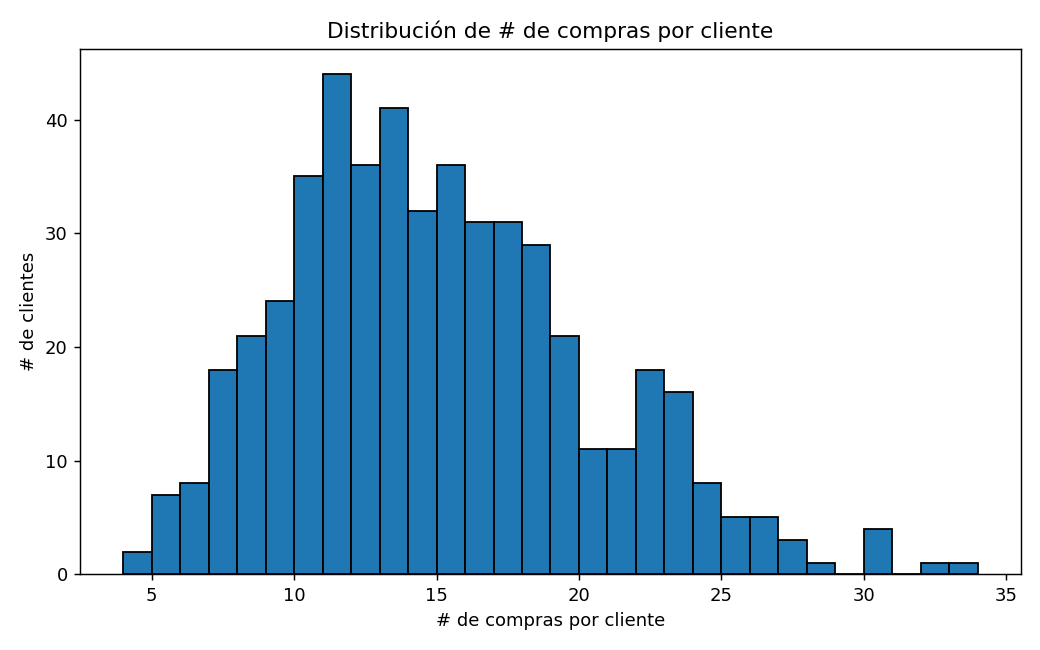
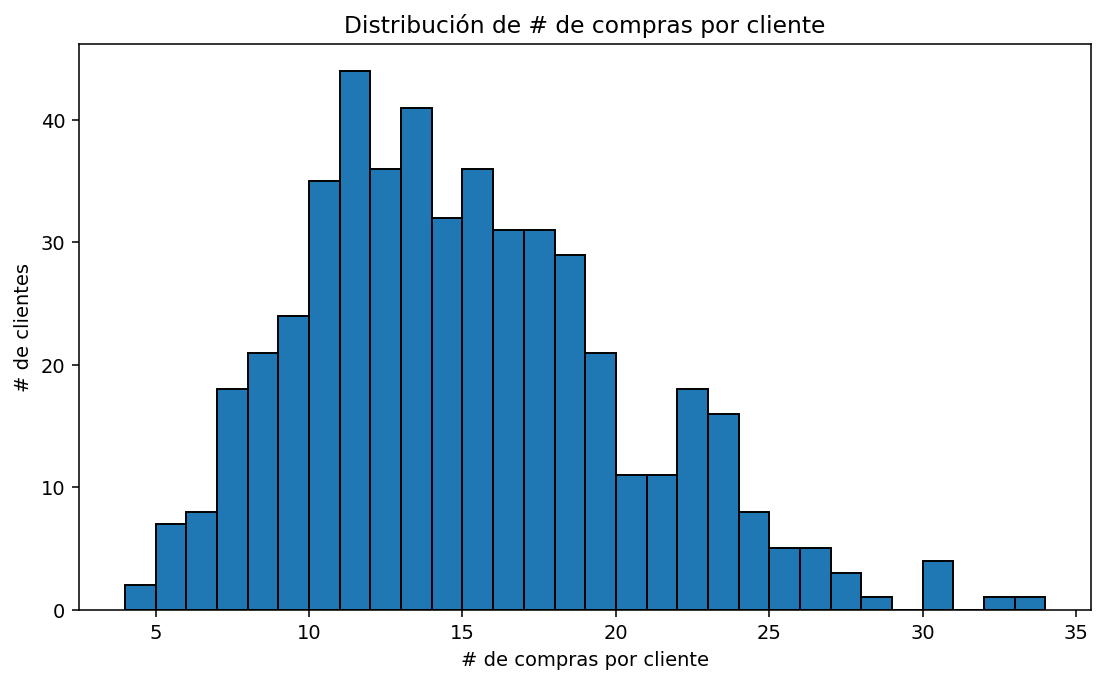
commit

Changed region(s): [[0.0, 0.0, 1.0, 0.9846]]

diff --git a/src/ml25/P01_customer_purchases/graficas.py b/src/ml25/P01_customer_purchases/graficas.py
@@ -1,108 +1,228 @@
 # ==========================
-# graficas_controladas.py
+# graficas.py — EDA (7 figuras) sin inflar totales, guardadas en figs/
 # ==========================
 from pathlib import Path
 from datetime import datetime
 import pandas as pd
+import numpy as np
 import matplotlib.pyplot as plt
 
-plt.rcParams['figure.figsize'] = (8,5)
+plt.rcParams["figure.figsize"] = (8, 5)
 REF_DATE = datetime(2025, 9, 21)
 
-# ---- QUÉ GRÁFICAS MOSTRAR ----
-PLOTS = {
-    "p1": True,   # 1) Distribución # compras por cliente
-    "p2": True,   # 2) Años desde release vs # compras (mejorada)
-    "p3": True,   # 3) Distribución de precios
-    "p4": True,   # 4) Edad vs total gastado
-    "p5": True,   # 5) Género vs categoría de prenda
-    "p6": True,   # 6) Rating promedio vs Precio
-    "p9": False,  # 9) Total de compras por dispositivo  << DESACTIVADA
-}
+# ---------- Rutas ----------
+HERE = Path(__file__).resolve().parent  # p.ej. src/ml25/P01_customer_purchases/
+CANDIDATES = [
+    HERE.parent / "datasets" / "customer_purchases" / "customer_purchases_train.csv",
+    HERE.parent.parent / "datasets" / "customer_purchases" / "customer_purchases_train.csv",
+    HERE / "customer_purchases_train.csv",
+]
+CSV_PATH = next((p for p in CANDIDATES if p.exists()), CANDIDATES[0])
 
-# ---- Paths / carga ----
-HERE = Path(__file__).resolve().parent
-CSV_PATH = HERE.parent / "datasets" / "customer_purchases" / "customer_purchases_train.csv"
+OUT_DIR = HERE / "figs"
+OUT_DIR.mkdir(parents=True, exist_ok=True)
+
+print("CSV_PATH:", CSV_PATH)
+print("OUT_DIR :", OUT_DIR)
+
+# ---------- Helpers ----------
+def save_fig(fig, name: str):
+    path = OUT_DIR / f"{name}.png"
+    fig.tight_layout()
+    fig.savefig(path, dpi=140, bbox_inches="tight")
+    print("✔ guardada:", path)
+    plt.show()
+    plt.close(fig)
+
+def to_price_numeric(s: pd.Series) -> pd.Series:
+    """Convierte '1.234,56'->1234.56, quita símbolos y parsea float robusto."""
+    s = s.astype("string").str.strip()
+    s = s.str.replace(r'\.(?=\d{3}\b)', '', regex=True)  # quita puntos de miles
+    s = s.str.replace(',', '.', regex=False)             # coma decimal -> punto
+    s = s.str.replace(r'[^0-9.\-]', '', regex=True)      # quita símbolos
+    s = s.replace({'': np.nan})
+    return pd.to_numeric(s, errors="coerce")
+
+def normalize_gender(series: pd.Series) -> pd.Series:
+    s = series.astype("string").str.strip().str.lower()
+    s = s.replace({pd.NA: "unknown", "nan": "unknown", "none": "unknown", "": "unknown"})
+    s = s.replace({"1": "female", "2": "male", "0": "unknown", "f": "female", "m": "male", "u": "unknown"})
+    return s.where(s.isin(["female", "male", "unknown"]), "unknown")
+
+# ---------- Carga ----------
 df = pd.read_csv(CSV_PATH)
 
-# ---- Prepro ----
-for col in ["customer_date_of_birth", "customer_signup_date", "item_release_date"]:
-    if col in df.columns:
-        df[col] = pd.to_datetime(df[col], errors="coerce")
+# ---------- Fechas / derivadas ----------
+for c in ["customer_date_of_birth", "customer_signup_date", "item_release_date", "purchase_timestamp"]:
+    if c in df.columns:
+        df[c] = pd.to_datetime(df[c], errors="coerce")
 
-df["customer_age"] = (REF_DATE - df["customer_date_of_birth"]).dt.days // 365
-df["customer_seniority"] = (REF_DATE - df["customer_signup_date"]).dt.days // 365
-if "item_release_date" in df.columns:
+if "customer_date_of_birth" in df.columns:
+    df["customer_age"] = (REF_DATE - df["customer_date_of_birth"]).dt.days // 365
+if "customer_signup_date" in df.columns:
+    df["customer_seniority"] = (REF_DATE - df["customer_signup_date"]).dt.days // 365
+if "item_years_since_release" not in df.columns and "item_release_date" in df.columns:
     df["item_years_since_release"] = (REF_DATE - df["item_release_date"]).dt.days / 365.0
+if "item_years_since_release" in df.columns:
+    df["item_years_since_release"] = pd.to_numeric(df["item_years_since_release"], errors="coerce")
 
-# ==============================
-# 1) Distribución compras/cliente
-# ==============================
-if PLOTS["p1"]:
-    compras_por_cliente = df.groupby('customer_id')['item_id'].count()
-    plt.hist(compras_por_cliente.values, bins=30, edgecolor='black')
-    plt.title("Distribución de # de compras por cliente")
-    plt.xlabel("# de compras por cliente"); plt.ylabel("# de clientes")
-    plt.show()
+# ---------- Limpieza de PRECIOS ----------
+if "item_price" in df.columns:
+    df["item_price"] = to_price_numeric(df["item_price"])
+else:
+    df["item_price"] = np.nan  # para no romper los gráficos
 
-# ==============================================
-# 2) Años desde release vs # de compras (MEJORADA)
-# ==============================================
-if PLOTS["p2"] and "item_years_since_release" in df.columns:
-    yrs = df["item_years_since_release"].dropna().round().astype(int)
+# =========================================================
+# GASTO ROBUSTO: transacción -> cliente (evita doble conteo)
+# =========================================================
+# 0) Filas con precio válido
+df_tx = df[df["item_price"].notna()].copy()
+
+# 1) Quita duplicados de línea (misma compra/mismo ítem/mismo precio)
+dup_subset = [c for c in ["purchase_id", "item_id", "item_price", "purchase_timestamp", "customer_id"] if c in df_tx.columns]
+if dup_subset:
+    df_tx = df_tx.drop_duplicates(subset=dup_subset)
+
+# 2) Total por transacción
+if "purchase_id" in df_tx.columns:
+    tx_totals = (
+        df_tx.groupby("purchase_id", as_index=False)["item_price"]
+             .sum()
+             .rename(columns={"item_price": "purchase_total"})
+    )
+    # compra -> cliente (una fila por purchase_id)
+    tx_customer = df_tx[["purchase_id", "customer_id"]].drop_duplicates("purchase_id")
+    # 3) Total por cliente (suma de transacciones)
+    cust_totals = (
+        tx_customer.merge(tx_totals, on="purchase_id", how="left")
+                   .groupby("customer_id", as_index=False)["purchase_total"].sum()
+                   .rename(columns={"purchase_total": "total_spent"})
+    )
+else:
+    # Fallback si no hay purchase_id
+    cust_totals = (
+        df_tx.groupby("customer_id", as_index=False)["item_price"].sum()
+             .rename(columns={"item_price": "total_spent"})
+    )
+
+# 4) Atributos por cliente
+attrs_cols = [c for c in ["customer_id", "customer_age", "customer_seniority", "customer_gender"] if c in df.columns]
+cust_attrs = df[attrs_cols].drop_duplicates("customer_id") if attrs_cols else pd.DataFrame(columns=["customer_id"])
+
+# 5) Dataset final a nivel cliente
+cust = cust_totals.merge(cust_attrs, on="customer_id", how="left")
+cust["gender_clean"] = normalize_gender(cust["customer_gender"]) if "customer_gender" in cust.columns else "unknown"
+
+# ---------- Subconjunto de compras reales para cruce (si 'label' existe) ----------
+df_buy_tx = df_tx[df_tx["label"] == 1].copy() if "label" in df_tx.columns else df_tx.copy()
+
+# =========================================================
+# (1) Distribución de # de compras por cliente  (únicas, con purchase_id)
+# =========================================================
+if "purchase_id" in df_tx.columns:
+    purchases_per_customer = df_tx.drop_duplicates("purchase_id").groupby("customer_id")["purchase_id"].nunique()
+    fig, ax = plt.subplots()
+    ax.hist(purchases_per_customer.values, bins=30, edgecolor="black")
+    ax.set_title("Distribución de # de compras por cliente")
+    ax.set_xlabel("# de compras por cliente"); ax.set_ylabel("# de clientes")
+    save_fig(fig, "compras_por_cliente_hist")
+
+# =========================================================
+# (2) Años desde release vs # de compras (barras + media móvil 3)
+# =========================================================
+if "item_years_since_release" in df_buy_tx.columns:
+    yrs = df_buy_tx["item_years_since_release"].dropna().round().astype(int)
     rel_counts = yrs.value_counts().sort_index()
-    plt.bar(rel_counts.index, rel_counts.values, edgecolor="black")
-    if len(rel_counts) >= 3:
-        roll = rel_counts.sort_index().rolling(3, center=True).mean()
-        plt.plot(roll.index, roll.values, marker="o")
-    plt.title("Años desde release vs # de compras")
-    plt.xlabel("Años desde release (redondeado)"); plt.ylabel("# Compras")
-    plt.show()
+    if len(rel_counts):
+        fig, ax = plt.subplots()
+        ax.bar(rel_counts.index, rel_counts.values, edgecolor="black", alpha=0.7)
+        if len(rel_counts) >= 3:
+            roll = rel_counts.sort_index().rolling(3, center=True).mean()
+            ax.plot(roll.index, roll.values, marker="o")
+        ax.set_title("Años desde release vs # de compras")
+        ax.set_xlabel("Años desde release (redondeado)"); ax.set_ylabel("# Compras")
+        save_fig(fig, "years_release_vs_purchases")
 
-# ==============================
-# 3) Distribución de precios
-# ==============================
-if PLOTS["p3"]:
-    plt.hist(df['item_price'].dropna(), bins=30, edgecolor='black')
-    plt.title("Distribución de precios")
-    plt.xlabel("Precio"); plt.ylabel("Frecuencia")
-    plt.show()
+# =========================================================
+# (3) Distribución de precios (limpios)
+# =========================================================
+fig, ax = plt.subplots()
+ax.hist(df_tx["item_price"].dropna(), bins=30, edgecolor="black")
+ax.set_title("Distribución de precios (limpios)")
+ax.set_xlabel("Precio"); ax.set_ylabel("Frecuencia")
+save_fig(fig, "dist_item_price")
 
-# ==============================
-# 4) Edad vs total gastado
-# ==============================
-if PLOTS["p4"]:
-    gasto_por_edad = df.groupby('customer_age')['item_price'].sum().dropna()
-    plt.scatter(gasto_por_edad.index, gasto_por_edad.values, alpha=0.7)
-    plt.title("Edad vs Total gastado")
-    plt.xlabel("Edad (años)"); plt.ylabel("Total gastado")
-    plt.show()
+# =========================================================
+# (4) Edad vs Total gastado (por cliente, SIN doble conteo)
+# =========================================================
+if {"customer_age","total_spent"}.issubset(cust.columns):
+    ok = cust.dropna(subset=["customer_age","total_spent"]).copy()
+    if len(ok) > 5:
+        ycap = ok["total_spent"].quantile(0.995)  # solo para visual
+        ok["total_spent_plot"] = ok["total_spent"].clip(upper=ycap)
+    else:
+        ok["total_spent_plot"] = ok["total_spent"]
+    fig, ax = plt.subplots()
+    ax.scatter(ok["customer_age"], ok["total_spent_plot"], alpha=0.7)
+    med = ok.groupby("customer_age")["total_spent_plot"].median()
+    if len(med):
+        ax.plot(med.index, med.values, linestyle="--")
+    ax.set_title("Edad vs Total gastado (por cliente, sin doble conteo)")
+    ax.set_xlabel("Edad (años)"); ax.set_ylabel("Total gastado")
+    save_fig(fig, "edad_vs_total_gastado_por_cliente")
 
-# ==============================
-# 5) Género vs Categoría de prenda
-# ==============================
-if PLOTS["p5"]:
-    genero_categoria = df.groupby(['item_category','customer_gender']).size().unstack(fill_value=0)
-    genero_categoria.plot(kind='bar', stacked=True, figsize=(10,5))
-    plt.title("Género vs Categoría de prenda")
-    plt.xlabel("Categoría"); plt.ylabel("# Compras")
-    plt.show()
+# =========================================================
+# (5) Género (incluye Unknown) vs Categoría (apiladas)
+# =========================================================
+cat_col = "item_category" if "item_category" in df_buy_tx.columns else ("item_category_num" if "item_category_num" in df_buy_tx.columns else None)
+if cat_col is not None:
+    # mapear género limpio por customer_id
+    gmap = cust.set_index("customer_id")["gender_clean"]
+    tmp = df_buy_tx.merge(gmap.rename("gender_clean"), left_on="customer_id", right_index=True, how="left")
+    tmp["gender_clean"] = normalize_gender(tmp["gender_clean"])
+    ct = pd.crosstab(tmp[cat_col].astype("string"), tmp["gender_clean"])
+    for col in ["female", "male", "unknown"]:
+        if col not in ct.columns:
+            ct[col] = 0
+    ct = ct[["female", "male", "unknown"]]
+    ax = ct.plot(kind="bar", stacked=True, figsize=(10,5))
+    ax.set_title("Género (incluye Unknown) vs Categoría")
+    ax.set_xlabel("Categoría"); ax.set_ylabel("# Compras")
+    fig = ax.get_figure()
+    save_fig(fig, "genero_vs_categoria_incluye_unknown")
 
-# ==============================
-# 6) Rating promedio vs Precio
-# ==============================
-if PLOTS["p6"]:
-    plt.scatter(df['item_avg_rating'], df['item_price'], alpha=0.5)
-    plt.title("Rating promedio vs Precio del producto")
-    plt.xlabel("Rating promedio"); plt.ylabel("Precio del producto")
-    plt.show()
+# =========================================================
+# (6) Rating promedio vs Precio del producto
+# =========================================================
+if {"item_avg_rating","item_price"}.issubset(df_tx.columns):
+    ok = df_tx.dropna(subset=["item_avg_rating","item_price"])
+    fig, ax = plt.subplots()
+    ax.scatter(ok["item_avg_rating"], ok["item_price"], alpha=0.5)
+    ax.set_title("Rating promedio vs Precio del producto")
+    ax.set_xlabel("Rating promedio"); ax.set_ylabel("Precio del producto")
+    save_fig(fig, "rating_vs_precio")
 
-# ==============================
-# 9) Total de compras por dispositivo
-# ==============================
-if PLOTS["p9"] and "purchase_device" in df.columns:
-    dev_counts = df['purchase_device'].value_counts()
-    dev_counts.plot(kind='bar', edgecolor='black')
-    plt.title("Total de compras por dispositivo")
-    plt.xlabel("Dispositivo"); plt.ylabel("# Compras")
-    plt.show()
+# =========================================================
+# (7) Antigüedad del cliente vs Total gastado (por cliente)
+# =========================================================
+if {"customer_seniority","total_spent"}.issubset(cust.columns):
+    ok2 = cust.dropna(subset=["customer_seniority","total_spent"]).copy()
+    if len(ok2) > 5:
+        ycap2 = ok2["total_spent"].quantile(0.995)  # solo visual
+        ok2["total_spent_plot"] = ok2["total_spent"].clip(upper=ycap2)
+    else:
+        ok2["total_spent_plot"] = ok2["total_spent"]
+    fig, ax = plt.subplots()
+    ax.scatter(ok2["customer_seniority"], ok2["total_spent_plot"], alpha=0.7)
+    med2 = ok2.groupby("customer_seniority")["total_spent_plot"].median()
+    if len(med2):
+        ax.plot(med2.index, med2.values, linestyle="--")
+    ax.set_title("Antigüedad del cliente vs Total gastado (sin doble conteo)")
+    ax.set_xlabel("Antigüedad (años)"); ax.set_ylabel("Total gastado")
+    save_fig(fig, "antiguedad_vs_total_gastado_por_cliente")
+
+# ---------- Listado final ----------
+print("\nContenido de figs/:")
+for p in sorted(OUT_DIR.glob("*.png")):
+    print(" -", p.name)
+print("\n✅ Listo. Las 7 figuras se guardaron en:", OUT_DIR)
